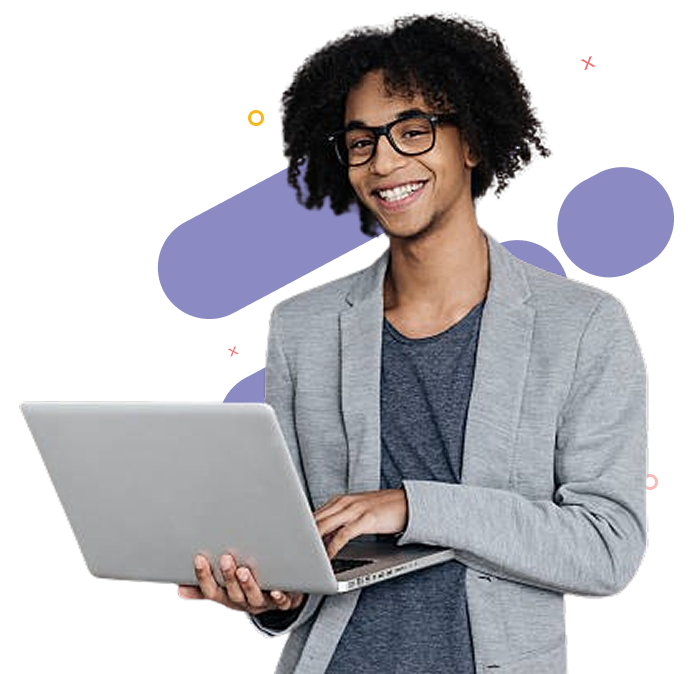
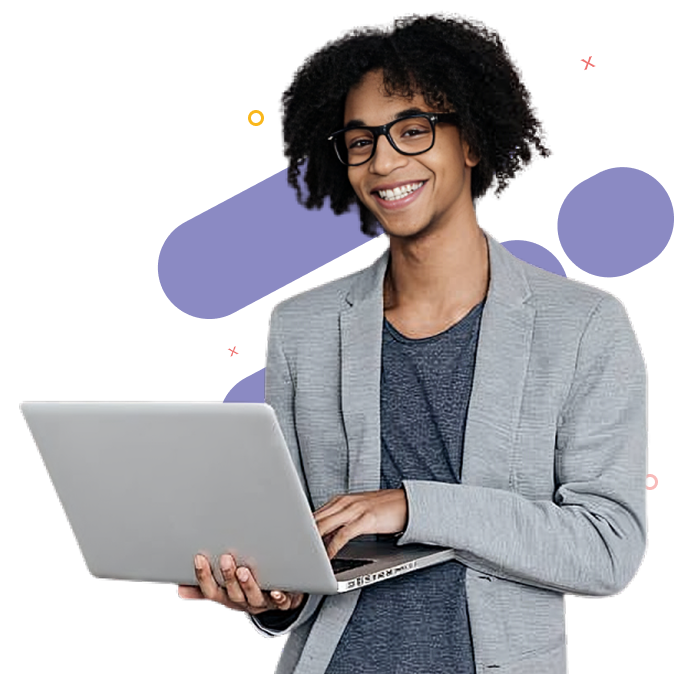
AFRI-17 Improve accessibility and LCP performance based on audit feedback (lighthouse)

Changed region(s): [[0.4848, 0.1558, 0.6364, 0.3116], [0.4848, 0.8412, 0.6061, 0.8724]]

diff --git a/src/components/footer/footer.tsx b/src/components/footer/footer.tsx
@@ -8,6 +8,8 @@ import Link from "next/link";
 import styles from "@components/footer/footer.module.scss";
 import Logo from "@ui/logo/logo";
 import { scrollToSection } from "@/utils/scroll-to-section";
+import Image from "next/image";
+import { Http2ServerRequest } from "http2";
 
 // Liens avec navigation interne et externe
 const infoLinks = [
@@ -20,9 +22,9 @@ const infoLinks = [
 ];
 
 const socialLinks = [
-    { Icon: FacebookLogoIcon, href: "/" },
-    { Icon: LinkedInLogoIcon, href: "/" },
-    { Icon: TwitterLogoIcon, href: "/", className: "bg-white text-black rounded-md" },
+    { Icon: FacebookLogoIcon, href: "/", label: "Facebook" },
+    { Icon: LinkedInLogoIcon, href: "/", label: "LinkedIn" },
+    { Icon: TwitterLogoIcon, href: "/", label: "Twitter ou X", className: "bg-white text-black rounded-md" },
 ];
 
 const footerBottomLinks = [
@@ -100,17 +102,21 @@ export default function Footer() {
                     {/* Logo + Description + Réseaux sociaux */}
                     <section className={styles.logoSection}>
                         <div className={styles.logoWrapper}>
-                            <Logo />
+                            <Image src="/logo.png" alt="AfriAi Solutions Logo" width={50} height={50} quality={75} />
+                            <h2 className={styles.logoText}>
+                                Afri<span className={styles.logoTextSpan}>Ai</span> Solutions
+                            </h2>
                         </div>
                         <p className={styles.description}>
-                            plateforme collaborative où chacun peut enregistrer, valider et partager des vocaux pour
-                            construire une communauté vivante et engagée.
+                            Nous concevons des interfaces sur mesure et développons des solutions adaptées à vos
+                            besoins. Nous connectons les idées aux technologies.
                         </p>
                         <h3 className={styles.socialTitle}>Suivez-nous</h3>
                         <ul className={styles.socialList}>
                             {socialLinks.map((social, i) => (
                                 <li key={i}>
                                     <Link href={social.href}>
+                                        <span className="sr-only">{social.label}</span>
                                         <social.Icon className={`${styles.socialIcon} ${social.className || ""}`} />
                                     </Link>
                                 </li>
@@ -139,7 +145,7 @@ export default function Footer() {
                         <form action="">
                             <div className={styles.newsletterForm}>
                                 <input type="email" name="email" placeholder="Votre adresse mail" />
-                                <button>
+                                <button aria-label="Envoyer" type="submit">
                                     <SendPlaneIcon />
                                 </button>
                             </div>

diff --git a/src/components/home/background/background.tsx b/src/components/home/background/background.tsx
@@ -4,16 +4,16 @@ import styles from "./background.module.scss";
 export default function Background() {
     return (
         <div className={styles.backgroundContainer}>
-            <div aria-label="Carrés en haut à gauche pour l'esthétique" className={styles.squaresTopLeft}>
+            <div aria-hidden={true} className={styles.squaresTopLeft}>
                 <Squares />
             </div>
-            <span aria-label="Cercle en haut pour l'esthétique" className={styles.circleTop}>
+            <span aria-hidden={true} className={styles.circleTop}>
                 <Circle />
             </span>
-            <span aria-label="Cercle en bas pour l'esthétique" className={styles.circleBottom}>
+            <span aria-hidden={true} className={styles.circleBottom}>
                 <Circle />
             </span>
-            <div aria-label="Carrés en bas à droite pour l'esthétique" className={styles.squaresBottomRight}>
+            <div aria-hidden={true} className={styles.squaresBottomRight}>
                 <Squares />
             </div>
         </div>

diff --git a/src/components/stats/stats.tsx b/src/components/stats/stats.tsx
@@ -43,7 +43,7 @@ export default function Stats() {
             <ul className={styles.statsList}>
                 {stats.map(({ icon: Icon, value, label }, idx) => (
                     <li key={idx} className={styles.statsItem}>
-                        <span aria-label="icone de la carte" className={styles.iconWrapper}>
+                        <span aria-hidden={true} className={styles.iconWrapper}>
                             <Icon className={styles.iconSize} />
                         </span>
 
@@ -53,11 +53,11 @@ export default function Stats() {
                 ))}
             </ul>
 
-            <div aria-label="Carrés en haut à gauche pour l'esthétique" className={styles.decorTop}>
+            <div aria-hidden={true} className={styles.decorTop}>
                 <Squares />
             </div>
 
-            <div aria-label="Carrés en bas à droite pour l'esthétique" className={styles.decorBottom}>
+            <div aria-hidden={true} className={styles.decorBottom}>
                 <Squares />
             </div>
         </section>

diff --git a/src/components/service/service.tsx b/src/components/service/service.tsx
@@ -70,10 +70,7 @@ export default function Services() {
                     {cardsData.map(({ id, title, description, icon: Icon, iconColor, order, iconBg }) => (
                         <li key={id} className={`${styles.cardItem} ${order || ""}`}>
                             <article className={styles.cardArticle}>
-                                <span
-                                    aria-label="icône de la carte"
-                                    className={`${styles.cardIconWrapper} ${iconColor} ${iconBg}`}
-                                >
+                                <span aria-hidden={true} className={`${styles.cardIconWrapper} ${iconColor} ${iconBg}`}>
                                     <Icon className="w-8 h-8" />
                                 </span>
                                 <h3 className={styles.cardTitle}>{title}</h3>

diff --git a/src/components/location/location.tsx b/src/components/location/location.tsx
@@ -1,11 +1,13 @@
 export default function Location() {
     return (
         <section className="w-full mt-20">
+            
             <div className="w-full h-96">
                 <iframe
                     src="https://www.google.com/maps/embed?pb=!1m18!1m12!1m3!1d3858.9223572288556!2d-17.478427709193493!3d14.721369893117503!2m3!1f0!2f0!3f0!3m2!1i1024!2i768!4f16!3m3!1m2!1s0xec172aeadb74d39%3A0x230af86d2cf852bb!2sSacre%20Coeur%203%20Extension%2C%20Dakar%2C%20Senegal!5e0!3m2!1sen!2sfr!4v1763583538146!5m2!1sen!2sfr"
                     width="100%"
                     height="450"
+                    title="La localisation de afriAi Solutions"
                     style={{ border: 0, borderRadius: "12px" }}
                     allowFullScreen
                     loading="lazy"

diff --git a/src/components/contact/form/contact-form.tsx b/src/components/contact/form/contact-form.tsx
@@ -75,7 +75,10 @@ export default function ContactForm() {
                     </div>
 
                     <div className={styles.inputWrapper}>
-                        <select className={styles.select} defaultValue="" required {...register("option")}>
+                        <label htmlFor="subject" className="sr-only">
+                            Sélectionner une option
+                        </label>
+                        <select className={styles.select} id="subject" defaultValue="" required {...register("option")}>
                             <option disabled hidden value="">
                                 Sélectionner une option
                             </option>

diff --git a/src/components/CTA/cta-section.tsx b/src/components/CTA/cta-section.tsx
@@ -24,11 +24,11 @@ export default function CTASection() {
                 </button>
             </div>
 
-            <div aria-label="Carrés en haut à gauche pour l'esthétique" className={styles.squaresTopLeft}>
+            <div aria-hidden={true} className={styles.squaresTopLeft}>
                 <Squares />
             </div>
 
-            <div aria-label="Carrés en bas à droite pour l'esthétique" className={styles.squaresBottomRight}>
+            <div aria-hidden={true} className={styles.squaresBottomRight}>
                 <Squares />
             </div>
         </section>

diff --git a/src/components/about/about-images/about-images.tsx b/src/components/about/about-images/about-images.tsx
@@ -19,7 +19,7 @@ export default function AboutImages() {
                     <span className={styles.overlay}></span>
                 </div>
                 <div className={styles.statsCard}>
-                    <span className={styles.statsIconWrapper} aria-label="Icône de groupe d'utilisateurs">
+                    <span className={styles.statsIconWrapper} aria-hidden={true} >
                         <UserGroupIcon className={styles.statsIcon} />
                     </span>
                     <p className={styles.statsText}>100% de clients satisfaits</p>

diff --git a/src/components/about/about-section/about-section.tsx b/src/components/about/about-section/about-section.tsx
@@ -31,7 +31,7 @@ export function Card({ icon: Icon, title, description }: CardProps) {
         <li>
             <article className={styles.card}>
                 {/* icon */}
-                <span aria-label="Icône de l'Afrique" className={styles.iconWrapper}>
+                <span aria-hidden={true} className={styles.iconWrapper}>
                     <Icon className={styles.icon} />
                 </span>
                 {/* text */}

diff --git a/src/components/footer/footer.module.scss b/src/components/footer/footer.module.scss
@@ -19,13 +19,12 @@
 .logoWrapper {
     @apply flex items-center gap-3;
 }
+.logoText {
+    @apply text-xl font-semibold text-afri-primary;
+}
 
-.logoImage {
-    @apply h-8 w-8;
-
-    img {
-        @apply object-cover w-full h-full;
-    }
+.logoTextSpan {
+    @apply text-afri-text-primary;
 }
 
 .description {

diff --git a/src/components/home/home-image/home-image.tsx b/src/components/home/home-image/home-image.tsx
@@ -10,6 +10,8 @@ export default function ImageComponent() {
                 alt="man holding laptop"
                 width={692}
                 height={674}
+                priority
+                fetchPriority="high"
             />
         </div>
     );

diff --git a/src/components/about/about-section/about-section.module.scss b/src/components/about/about-section/about-section.module.scss
@@ -92,5 +92,5 @@
 }
 
 .phoneNumber {
-    @apply font-semibold md:text-base text-sm text-afri-secondary mt-1;
+    @apply font-semibold md:text-base text-sm text-afri-text-muted mt-1;
 }
